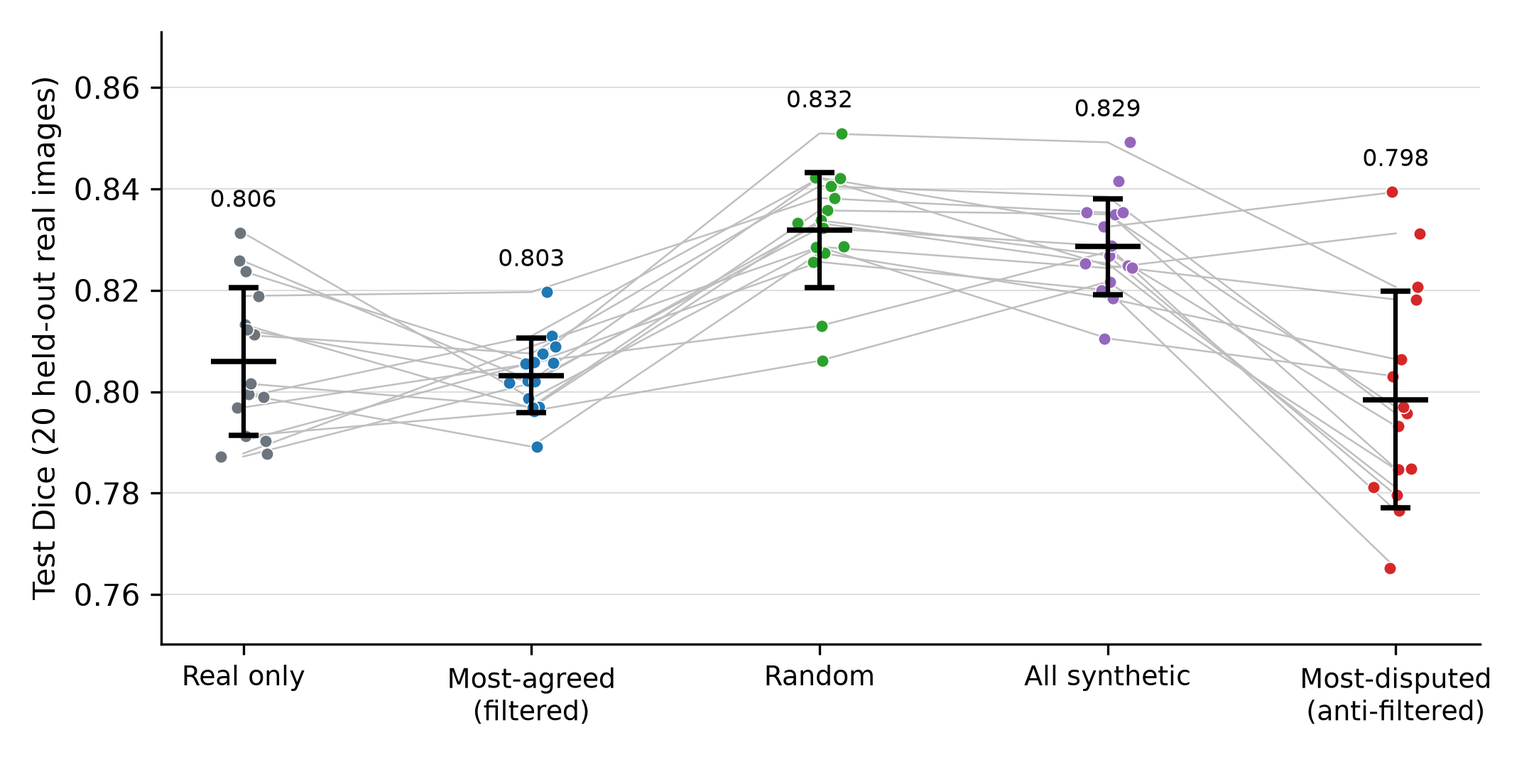
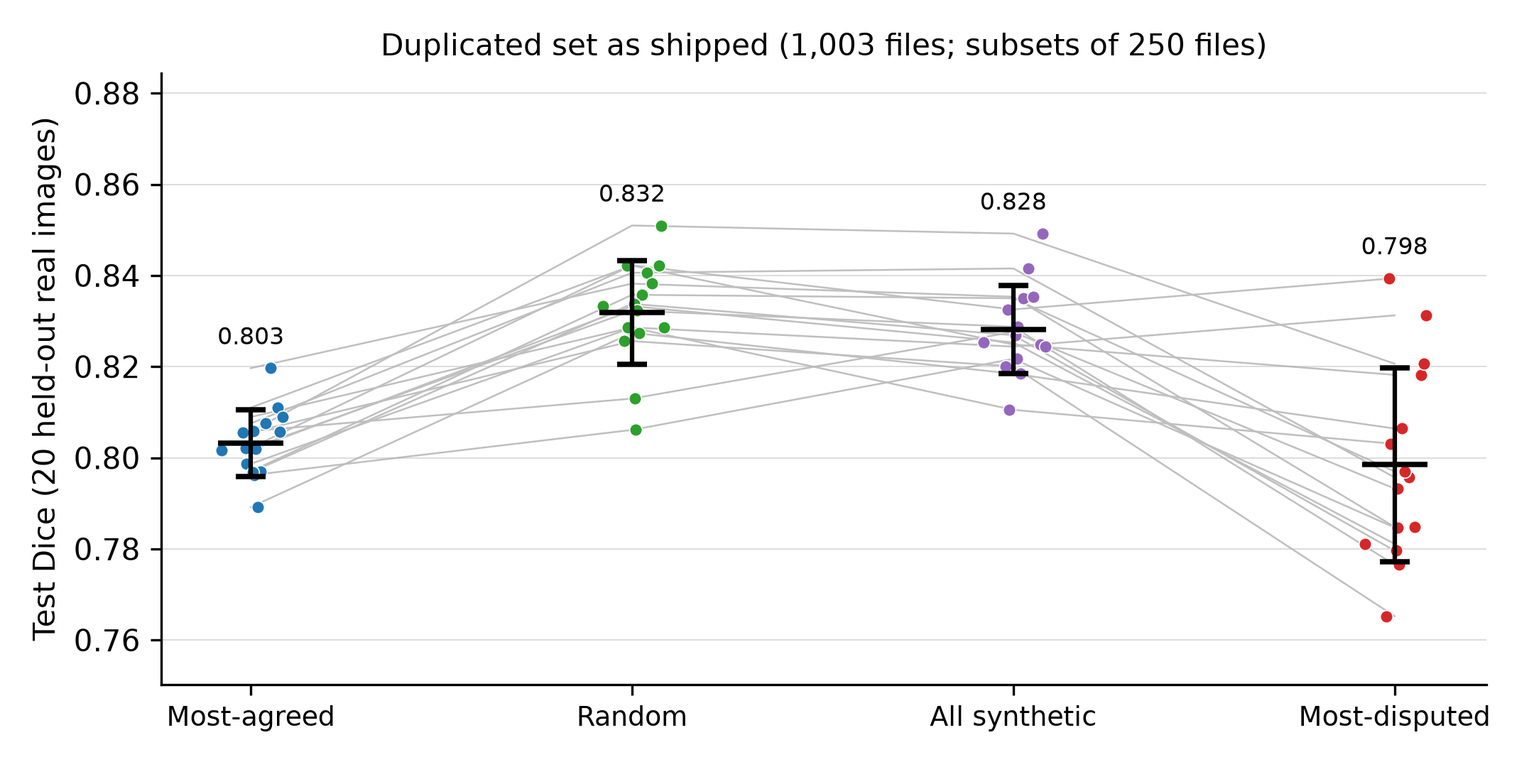
Manuscript: deduplicated selection results (disagreement selection wins after dedup), new figures, all-150 run table
Claude-Session: https://claude.ai/code/session_01DSBN8gkkGhyuZXCGGZFHWW

diff --git a/RSL/main.tex b/RSL/main.tex
@@ -15,8 +15,7 @@
 % both an anonymous and a with-author-details manuscript; figures 300 dpi
 % colour, supplied separately at revision (JPEG/TIFF/PS preferred).
 %
-% Text marked \tbd{...} depends on the deduplicated-selection experiment
-% (results/runs/attention_u*) and is filled in once those 75 runs finish.
+% Remaining \tbd{...} markers are author-supplied items (authors, funding).
 \documentclass[11pt]{article}
 \usepackage[a4paper,margin=3cm]{geometry}
 \usepackage{amsmath,amssymb}
@@ -30,18 +29,18 @@
 \singlespacing
 \newcommand{\tbd}[1]{\textcolor{red}{[#1]}}
 
-\title{A Thousand Synthetic Images That Were One Hundred: Duplication, Evaluation Leakage and the Real Value of GAN-Expanded Data for Small-Data Road Segmentation}
-\author{Anonymous Author(s)}
+\title{Deduplicate, Then Disagree: What GAN-Synthetic Imagery Is Worth for Small-Data Satellite Road Segmentation, and How to Select It}
+\author{\tbd{Author names, affiliations, ORCIDs; corresponding author email}}
 \date{}
 
 \begin{document}
 \maketitle
 
 \begin{abstract}
-GAN-generated images are increasingly bundled with small annotated remote-sensing datasets, but their value is rarely measured cleanly. Auditing a public road-segmentation dataset (100 real images plus 1{,}003 Pix2Pix-generated pairs), we find only 106 distinct synthetic images and 75 distinct masks, each file repeated about twelve times. Under a protocol with a fixed real test set, five-fold real-only cross-validation, synthetic data confined to training, matched optimizer budgets and 15 paired replicates, the synthetic data raises Attention U-Net test Dice from 0.806 to 0.832; a random quarter of the files captures the whole gain, and validating on the pooled real--synthetic set inflates it about sevenfold. Selecting synthetic images by the disagreement of a committee of real-trained models collapses to 26 unique images on the duplicated set and loses to random selection in 15/15 and 14/15 replicates\tbd{; after deduplication, \ldots}. Committee disagreement mainly tracks mismatch between a synthetic image and its mask and is confounded with road density. Auditing synthetic sets for duplicates, evaluating on real images only, matching compute across conditions and sampling synthetic images uniformly are recommended.
+GAN-generated images are increasingly bundled with small annotated satellite datasets, but their value for road extraction is rarely measured cleanly. Auditing a public road-segmentation dataset (100 real images plus 1{,}003 Pix2Pix-generated pairs), we find only 106 distinct synthetic images and 75 distinct masks, each file repeated about twelve times. Under a protocol with a fixed real test set, five-fold real-only cross-validation, synthetic data confined to training, matched optimizer budgets and 15 paired replicates per condition, the synthetic images raise Attention U-Net test Dice from 0.806 to 0.839 once duplicates are removed; training on the 1{,}003 files as shipped is significantly worse than training on the 106 unique images, and validating on the pooled real--synthetic set inflates the apparent benefit about sevenfold. We then select synthetic images by the disagreement of a committee of real-trained models. On the duplicated set every score-based selection collapses to 26 unique images and loses to random sampling. After deduplication, the 50 most-disputed images match the full unique set, exceed a random 50 in 11 of 15 replicates, beat the 50 most-agreed images by 2.6 Dice points and give the lowest seed sensitivity of any condition. Deduplication, real-only evaluation and disagreement-based selection are recommended.
 \end{abstract}
 
-\noindent\textbf{Keywords:} road extraction; synthetic data; Pix2Pix; data duplication; evaluation leakage; Attention U-Net; data selection
+\noindent\textbf{Keywords:} road extraction; synthetic data; Pix2Pix; data duplication; evaluation leakage; query by committee; Attention U-Net
 
 \section{Introduction}
 
@@ -49,11 +48,11 @@ Pixel-level road annotation is expensive, and conditional generative models offe
 
 We answer all three for the Kaggle dataset \emph{Satellite Images for Road Segmentation} \citep{sanadalali}, which ships 100 annotated satellite images and 1{,}003 Pix2Pix-generated pairs. The study is a corrected and extended version of a conference submission that reported a rise in Attention U-Net Dice from 0.81 to 0.96 when the synthetic images were added. Reviewers objected that the numbers came from a validation split drawn from the pooled real and synthetic images, and asked whether the synthetic set was ``artificially repeated''. Both objections turn out to be exactly right, and answering them properly produces findings that we believe are more useful than the original claim.
 
-The contributions are as follows. (i) A file-level audit shows that the 1{,}003 synthetic pairs contain 106 distinct images and 75 distinct masks, each duplicated about twelve times, with no synthetic mask equal to a real mask. (ii) Under a leakage-free, compute-matched protocol with 15 paired replicates per condition, we measure the real benefit of the synthetic data (2.6 Dice points on held-out real images), show that a random quarter of the files captures all of it, and quantify the sevenfold inflation caused by validating on the pooled set. (iii) We test query-by-committee selection of synthetic images in both directions, on the duplicated set and \tbd{after deduplication}, and explain the outcome through diagnostics linking committee disagreement to image--mask mismatch and road density. Code, the frozen split file, committee scores and all per-run results are released.\footnote{\url{https://github.com/hz6yc3/attention-enhanced-unet-segmentation}}
+The contributions are as follows. (i) A file-level audit shows that the 1{,}003 synthetic pairs contain 106 distinct images and 75 distinct masks, each duplicated about twelve times. (ii) Under a leakage-free, compute-matched protocol with 15 paired replicates per condition, we measure the real benefit of the synthetic data on held-out real images (3.3 Dice points from the 106 unique images), show that training on the duplicated files as shipped is significantly worse than training on the unique images, and quantify the sevenfold inflation caused by validating on the pooled set. (iii) We show that query-by-committee selection of synthetic images fails on the duplicated set, because identical files receive identical scores and any ranking collapses to a few unique images, but succeeds after deduplication: the 50 most-disputed unique images match the full unique set and outperform random and agreement-based selections, with the lowest seed sensitivity of any condition. Code, the frozen split file, committee scores and all per-run results are released.\footnote{\url{https://github.com/hz6yc3/attention-enhanced-unet-segmentation}}
 
 \section{Related work}
 
-U-Net \citep{ronneberger2015} and its variants dominate road extraction from overhead imagery \citep{zhang2018,zhou2018,batra2019}. Attention U-Net \citep{oktay2018} adds additive attention gates to the skip connections, a modification of about 1\% more parameters that suppresses background features; it is the architecture used throughout. GAN-based augmentation \citep{goodfellow2014,isola2017} is widely used against annotation scarcity in remote sensing, but evaluation practice is inconsistent and gains are often measured on splits that include synthetic images. Duplicate and near-duplicate contamination has been documented in standard vision benchmarks, where copies shared between training and test sets inflate test accuracy \citep{barz2020}; to our knowledge it has not been reported for a GAN-expanded remote-sensing training set, where its effect is different: it inflates the \emph{apparent size} of the training set rather than the test score. Query-by-committee \citep{seung1992,settles2009} selects unlabelled samples on which independently trained models disagree; its use for choosing among \emph{synthetic} samples, whose labels are fixed by construction, has not been evaluated on a segmentation task with a real held-out test set.
+U-Net \citep{ronneberger2015} and its variants dominate road extraction from overhead imagery \citep{zhang2018,zhou2018,batra2019}. Attention U-Net \citep{oktay2018} adds additive attention gates to the skip connections, a modification of about 1\% more parameters that suppresses background features; it is the architecture used throughout. GAN-based augmentation \citep{goodfellow2014,isola2017} is widely used against annotation scarcity in remote sensing, but evaluation practice is inconsistent and gains are often measured on splits that include synthetic images. Duplicate and near-duplicate contamination has been documented in standard vision benchmarks, where copies shared between training and test sets inflate test accuracy \citep{barz2020}; to our knowledge it has not been reported for a GAN-expanded remote-sensing training set, where its effect is different: it inflates the \emph{apparent size} of the training set and defeats per-file selection rules. Query-by-committee \citep{seung1992,settles2009} selects unlabelled samples on which independently trained models disagree; its use for choosing among \emph{synthetic} samples, whose labels are fixed by construction, has not been evaluated on a segmentation task with a real held-out test set.
 
 \section{Materials and methods}
 
@@ -61,7 +60,7 @@ U-Net \citep{ronneberger2015} and its variants dominate road extraction from ove
 
 The dataset provides 100 real RGB satellite images of $400\times400$ pixels with binary road masks (road fraction $20.3\%\pm7.2\%$), 50 unlabelled test images that we do not use, and 1{,}003 $416\times416$ image--mask pairs that the dataset page describes as generated with Pix2Pix. The provenance of the synthetic masks is not documented on the dataset page. Figure~\ref{fig:dataset} shows real samples.
 
-Hashing every synthetic file reveals that the set is heavily duplicated. There are \textbf{106 distinct synthetic images} and \textbf{75 distinct synthetic masks}: 45 masks were rendered once, 29 twice and one three times, and every resulting image was then copied, byte for byte, between 1 and 14 times (median 12). Every copy of an image carries the same mask. None of the 75 synthetic masks is pixel-identical to a real mask, or to a flipped or rotated real mask, after resizing the real masks to the synthetic resolution; we did not search for near-duplicates of real masks. The synthetic set therefore does not copy real test images outright, but its effective size is about a tenth of its nominal size. Table~\ref{tab:audit} summarizes the audit. The consequence for training is that ``1{,}003 synthetic images'' is a twelve-fold oversampling of 106, and that any per-file selection rule will select whole groups of identical copies.
+Hashing every synthetic file reveals that the set is heavily duplicated. There are \textbf{106 distinct synthetic images} and \textbf{75 distinct synthetic masks}: 45 masks were rendered once, 29 twice and one three times, and every resulting image was then copied, byte for byte, between 1 and 14 times (median 12). Every copy of an image carries the same mask. None of the 75 synthetic masks is pixel-identical to a real mask, or to a flipped or rotated real mask, after resizing the real masks to the synthetic resolution; we did not search for near-duplicates of real masks. The synthetic set therefore does not copy real test images outright, but its effective size is about a tenth of its nominal size. Table~\ref{tab:audit} summarizes the audit. Two consequences follow for training: ``1{,}003 synthetic images'' is a twelve-fold oversampling of 106, and any per-file selection rule will select whole groups of identical copies.
 
 \begin{table}[t]
 \centering
@@ -100,82 +99,88 @@ Distinct committee-score pairs (fold 0) & 93 \\
 
 For each fold, the three real-only models form a committee. Each synthetic image is passed through the committee, predictions are binarized at 0.5, and the \emph{committee disagreement} is the mean pairwise $1-\mathrm{Dice}$ between the three predictions. The committee is trained only on the real training folds, so the score never sees validation or test images. For diagnosis we also record each member's $1-\mathrm{Dice}$ against the synthetic mask (\emph{label disagreement}) and the mask's road fraction. Identical files receive identical scores.
 
-Two families of conditions are compared, all with the 64 real training images. On the \textbf{duplicated set} (files as shipped): \emph{all} (1{,}003 files); \emph{random} (250 files drawn uniformly, re-drawn per fold and seed); \emph{most-agreed} (250 lowest-disagreement files, i.e.\ filtering suspected artefacts); and \emph{most-disputed} (250 highest-disagreement files, i.e.\ uncertainty sampling). On the \textbf{deduplicated set} (one file per distinct image): \emph{all-unique} (106); and \emph{random}, \emph{most-agreed}, \emph{most-disputed} and \emph{middle band} (the 50 images centred on the median score, discarding both extremes), each with 50 unique images. Together with the real-only baseline this is $10$ conditions $\times 15$ replicates $= 150$ training runs plus five scoring passes.
+Two families of conditions are compared, all with the 64 real training images. On the \textbf{duplicated set} (files as shipped): \emph{all} (1{,}003 files); \emph{random} (250 files drawn uniformly, re-drawn per fold and seed); \emph{most-agreed} (250 lowest-disagreement files, i.e.\ filtering suspected artefacts); and \emph{most-disputed} (250 highest-disagreement files, i.e.\ uncertainty sampling). On the \textbf{deduplicated set} (one file per distinct image): \emph{all-unique} (106); and \emph{random}, \emph{most-agreed}, \emph{middle band} (the 50 images centred on the median score) and \emph{most-disputed}, each with 50 unique images. Together with the real-only baseline this is $10$ conditions $\times 15$ replicates $= 150$ training runs plus five scoring passes, about 15 GPU-hours on a single T4.
 
 \section{Results}
 
 \begin{table}[t]
 \centering
-\caption{Test results on the 20 held-out real images (mean $\pm$ SD over 15 fold$\times$seed replicates). ``Unique'' is the mean number of distinct synthetic images actually present in the training set. Seed sensitivity is the SD across seeds averaged over folds. All runs use 64 real images and an identical 1{,}200-step budget.}
+\caption{Test results on the 20 held-out real images (mean $\pm$ SD over 15 fold$\times$seed replicates). ``Unique'' is the mean number of distinct synthetic images present in the training set. Seed sensitivity is the SD across seeds averaged over folds. All runs use 64 real images and an identical 1{,}200-step budget.}
 \label{tab:main}
 \small
 \begin{tabular}{llrrrrr}
 \toprule
 Set & Condition & Files & Unique & Dice & IoU & Seed sens. \\
 \midrule
---          & Real only        & 0       & 0    & $0.806 \pm 0.015$ & $0.698 \pm 0.018$ & 0.014 \\
+--           & Real only        & 0       & 0    & $0.806 \pm 0.015$ & $0.698 \pm 0.018$ & 0.014 \\
 \midrule
-Duplicated  & + all            & 1{,}003 & 106  & $0.828 \pm 0.010$ & $0.726 \pm 0.013$ & 0.009 \\
-            & + random         & 250     & 81   & $\mathbf{0.832 \pm 0.011}$ & $\mathbf{0.731 \pm 0.016}$ & 0.012 \\
-            & + most-agreed    & 250     & 26   & $0.803 \pm 0.007$ & $0.702 \pm 0.010$ & 0.007 \\
-            & + most-disputed  & 250     & 26   & $0.798 \pm 0.021$ & $0.677 \pm 0.027$ & 0.017 \\
+Duplicated   & + all            & 1{,}003 & 106  & $0.828 \pm 0.010$ & $0.726 \pm 0.013$ & 0.009 \\
+             & + random         & 250     & 81   & $0.832 \pm 0.011$ & $0.731 \pm 0.016$ & 0.012 \\
+             & + most-agreed    & 250     & 26   & $0.803 \pm 0.007$ & $0.702 \pm 0.010$ & 0.007 \\
+             & + most-disputed  & 250     & 26   & $0.798 \pm 0.021$ & $0.677 \pm 0.027$ & 0.017 \\
 \midrule
-Deduplicated & + all-unique    & 106     & 106  & \tbd{x.xxx $\pm$ x.xxx} & \tbd{x.xxx $\pm$ x.xxx} & \tbd{x.xxx} \\
-            & + random         & 50      & 50   & \tbd{x.xxx $\pm$ x.xxx} & \tbd{x.xxx $\pm$ x.xxx} & \tbd{x.xxx} \\
-            & + most-agreed    & 50      & 50   & \tbd{x.xxx $\pm$ x.xxx} & \tbd{x.xxx $\pm$ x.xxx} & \tbd{x.xxx} \\
-            & + middle band    & 50      & 50   & \tbd{x.xxx $\pm$ x.xxx} & \tbd{x.xxx $\pm$ x.xxx} & \tbd{x.xxx} \\
-            & + most-disputed  & 50      & 50   & \tbd{x.xxx $\pm$ x.xxx} & \tbd{x.xxx $\pm$ x.xxx} & \tbd{x.xxx} \\
+Deduplicated & + all-unique     & 106     & 106  & $\mathbf{0.839 \pm 0.014}$ & $\mathbf{0.740 \pm 0.017}$ & 0.013 \\
+             & + random         & 50      & 50   & $0.830 \pm 0.013$ & $0.733 \pm 0.015$ & 0.012 \\
+             & + most-agreed    & 50      & 50   & $0.812 \pm 0.010$ & $0.712 \pm 0.011$ & 0.009 \\
+             & + middle band    & 50      & 50   & $0.815 \pm 0.013$ & $0.715 \pm 0.019$ & 0.012 \\
+             & + most-disputed  & 50      & 50   & $\mathbf{0.839 \pm 0.009}$ & $0.738 \pm 0.012$ & $\mathbf{0.007}$ \\
 \bottomrule
 \end{tabular}
 \end{table}
 
 \begin{table}[t]
 \centering
-\caption{Paired comparisons of test Dice over the 15 matched (fold, seed) replicates. $\Delta$ is the mean difference $a-b$ with 95\% confidence interval; ``wins'' counts replicates in which $a$ exceeds $b$. Rows marked $\dagger$ are on the deduplicated set.}
+\caption{Paired comparisons of test Dice over the 15 matched (fold, seed) replicates. $\Delta$ is the mean difference $a-b$ with 95\% confidence interval; ``wins'' counts replicates in which $a$ exceeds $b$. Numbers in parentheses are files (duplicated set) or unique images (deduplicated set, marked $\dagger$).}
 \label{tab:paired}
 \small
 \begin{tabular}{llrrrr}
 \toprule
 $a$ & $b$ & $\Delta$ Dice & Wins & Wilcoxon $p$ & Paired $t$ $p$ \\
 \midrule
+\multicolumn{6}{l}{\emph{Duplicated set}} \\
 random (250)         & real only    & $+0.026 \pm 0.010$ & 13/15 & $3.1\times10^{-4}$ & $8.4\times10^{-5}$ \\
 all (1{,}003)        & real only    & $+0.022 \pm 0.010$ & 14/15 & $1.2\times10^{-3}$ & $3.4\times10^{-4}$ \\
 all (1{,}003)        & random (250) & $-0.004 \pm 0.005$ & 3/15  & 0.064 & 0.14 \\
 most-agreed (250)    & random (250) & $-0.029 \pm 0.006$ & 0/15  & $6.1\times10^{-5}$ & $1.1\times10^{-7}$ \\
 most-disputed (250)  & random (250) & $-0.033 \pm 0.011$ & 1/15  & $1.2\times10^{-4}$ & $1.3\times10^{-5}$ \\
-most-agreed (250)    & real only    & $-0.003 \pm 0.009$ & 7/15  & 0.60 & 0.50 \\
-most-disputed (250)  & real only    & $-0.008 \pm 0.012$ & 5/15  & 0.28 & 0.27 \\
 \midrule
-all-unique (106)$^\dagger$ & all (1{,}003) & \tbd{$\pm$} & \tbd{/15} & \tbd{} & \tbd{} \\
-random (50)$^\dagger$      & real only     & \tbd{$\pm$} & \tbd{/15} & \tbd{} & \tbd{} \\
-most-agreed (50)$^\dagger$ & random (50)$^\dagger$   & \tbd{$\pm$} & \tbd{/15} & \tbd{} & \tbd{} \\
-middle band (50)$^\dagger$ & random (50)$^\dagger$   & \tbd{$\pm$} & \tbd{/15} & \tbd{} & \tbd{} \\
-most-disputed (50)$^\dagger$ & random (50)$^\dagger$ & \tbd{$\pm$} & \tbd{/15} & \tbd{} & \tbd{} \\
+\multicolumn{6}{l}{\emph{Deduplicated set}} \\
+all-unique (106)$^\dagger$   & all (1{,}003)           & $+0.011 \pm 0.007$ & 13/15 & $6.7\times10^{-3}$ & $4.7\times10^{-3}$ \\
+all-unique (106)$^\dagger$   & real only               & $+0.033 \pm 0.014$ & 13/15 & $3.1\times10^{-4}$ & $1.3\times10^{-4}$ \\
+random (50)$^\dagger$        & real only               & $+0.024 \pm 0.011$ & 13/15 & $8.5\times10^{-4}$ & $2.8\times10^{-4}$ \\
+most-disputed (50)$^\dagger$ & real only               & $+0.033 \pm 0.007$ & 15/15 & $6.1\times10^{-5}$ & $7.1\times10^{-8}$ \\
+most-disputed (50)$^\dagger$ & random (50)$^\dagger$   & $+0.008 \pm 0.009$ & 11/15 & 0.047 & 0.070 \\
+most-disputed (50)$^\dagger$ & all-unique (106)$^\dagger$ & $-0.001 \pm 0.011$ & 10/15 & 0.80 & 0.90 \\
+most-disputed (50)$^\dagger$ & most-agreed (50)$^\dagger$ & $+0.026 \pm 0.008$ & 14/15 & $1.2\times10^{-4}$ & $8.9\times10^{-6}$ \\
+most-agreed (50)$^\dagger$   & random (50)$^\dagger$   & $-0.018 \pm 0.008$ & 2/15  & $6.1\times10^{-4}$ & $3.8\times10^{-4}$ \\
+middle band (50)$^\dagger$   & random (50)$^\dagger$   & $-0.015 \pm 0.011$ & 4/15  & 0.018 & 0.010 \\
 \bottomrule
 \end{tabular}
 \end{table}
 
 \begin{figure}[t]
 \centering
-\includegraphics[width=0.9\linewidth]{fig_conditions.png}
-\caption{Test Dice of every replicate per condition on the duplicated set. Grey lines join the same (fold, seed) across conditions; black bars show mean $\pm$ SD.}
+\includegraphics[width=0.9\linewidth]{fig_conditions.png}\\[2pt]
+\includegraphics[width=0.9\linewidth]{fig_conditions_dedup.png}
+\caption{Test Dice of every replicate per condition on the duplicated set as shipped (top) and after deduplication (bottom). Grey lines join the same (fold, seed) across conditions; black bars show mean $\pm$ SD. Both panels share the vertical scale.}
 \label{fig:conditions}
 \end{figure}
 
 \begin{figure}[t]
 \centering
-\includegraphics[width=0.62\linewidth]{fig_paired.png}
-\caption{Paired differences in test Dice relative to the random 250-file subset. Diamonds and bars show the mean and 95\% confidence interval over 15 replicates.}
+\includegraphics[width=0.48\linewidth]{fig_paired.png}\hfill
+\includegraphics[width=0.48\linewidth]{fig_paired_dedup.png}
+\caption{Paired differences in test Dice relative to the random subset of the same family: 250 files on the duplicated set (left) and 50 unique images on the deduplicated set (right). Diamonds and bars show the mean and 95\% confidence interval over 15 replicates.}
 \label{fig:paired}
 \end{figure}
 
-\paragraph{The real benefit is 2.6 Dice points, from about 100 unique images.} Table~\ref{tab:main} and Figure~\ref{fig:conditions} summarize the duplicated-set runs. Adding synthetic data raises test Dice from 0.806 to 0.832 with a random 250-file subset ($+2.6$ points, 13/15 wins, Table~\ref{tab:paired}) and to 0.828 with all 1{,}003 files. The random subset already contains 81 of the 106 unique images on average, which is why the remaining 753 files add nothing; the full set is in fact marginally worse (3/15 wins, $p=0.06$), consistent with twelve-fold oversampling of the same content under a fixed budget. \tbd{The deduplicated all-unique condition, 106 files with no repetition, reaches Dice x.xxx, [better/no different] than the 1{,}003-file set (Table~\ref{tab:paired}), confirming that the copies contribute nothing.} Synthetic data also reduces seed sensitivity from 0.014 to 0.009--0.012, a 20--35\% reduction.
+\paragraph{Synthetic data helps by about three Dice points, and the copies hurt.} Table~\ref{tab:main} and Figure~\ref{fig:conditions} summarize the 150 runs. Training on the 106 unique synthetic images raises test Dice from 0.806 to 0.839 ($+3.3$ points, 13/15 wins, Table~\ref{tab:paired}). Training on the 1{,}003 files as shipped reaches only 0.828: the same content with twelve-fold repetition is significantly worse than the unique images under an identical budget ($\Delta=-0.011$, 13/15, $p<0.01$), and no better than a random 250-file subset that happens to contain 81 unique images. Synthetic data also reduces seed sensitivity, from 0.014 to 0.009--0.013.
 
-\paragraph{Evaluation on the pooled set inflates the benefit sevenfold.} Under the earlier pooled-validation protocol, the same architecture and data showed a gain of 15.1 Dice points from synthetic expansion (mean validation Dice 0.810 to 0.961 over three seeds). Under the real-only protocol the gain is 2.2 points for the same 1{,}003 files. Two mechanisms combine. Synthetic images are easier than real ones, having perfect label alignment and no annotation noise. And because each synthetic image appears twelve times, a validation split drawn from the pool almost always contains copies of images that are also in the training split, so the pooled protocol partly measures memorization.
+\paragraph{Evaluation on the pooled set inflates the benefit sevenfold.} Under the earlier pooled-validation protocol, the same architecture and data showed a gain of 15.1 Dice points from synthetic expansion (mean validation Dice 0.810 to 0.961 over three seeds). Under the real-only protocol the gain is 2.2 points for the same 1{,}003 files. Two mechanisms combine: synthetic images are easier than real ones, having perfect label alignment and no annotation noise, and because each synthetic image appears twelve times, a validation split drawn from the pool almost always contains copies of images that are also in the training split, so the pooled protocol partly measures memorization.
 
-\paragraph{On the duplicated set, committee selection collapses diversity and loses to random.} Because identical files receive identical scores, ranking by committee disagreement selects whole groups of copies: the 250 most-agreed files contain 26 unique images (range 24--27) and so do the 250 most-disputed, against 81 for a random draw. Both selections lose to random in nearly every replicate ($\Delta=-0.029$ and $-0.033$ Dice, 0/15 and 1/15 wins, $p<10^{-3}$) and neither differs significantly from using no synthetic data at all. Figure~\ref{fig:paired} shows the paired differences. This is the realistic setting for a practitioner who downloads a GAN-expanded dataset and applies a per-image quality score, and the lesson is that any such score must be applied after deduplication.
+\paragraph{On the duplicated set, committee selection collapses diversity and loses to random.} Because identical files receive identical scores, ranking by committee disagreement selects whole groups of copies: the 250 most-agreed files contain 26 unique images (range 24--27) and so do the 250 most-disputed, against 81 for a random draw. Both selections lose to random in nearly every replicate ($\Delta=-0.029$ and $-0.033$ Dice, 0/15 and 1/15 wins, $p<10^{-3}$) and neither differs significantly from using no synthetic data at all (Figure~\ref{fig:paired}, left). This is the realistic setting for a practitioner who downloads a GAN-expanded dataset and applies a per-image score, and the lesson is that any such score must be applied after deduplication.
 
-\paragraph{After deduplication.} \tbd{Table~\ref{tab:main} (lower block) and Table~\ref{tab:paired} report the deduplicated conditions, which compare selections of equal unique size. Random 50 of 106 reaches Dice x.xxx; most-agreed x.xxx; middle band x.xxx; most-disputed x.xxx. Interpretation to be written once the runs complete: whether any score-based selection beats random at equal diversity, and whether the middle band, which discards both redundant and label-noisy images, is the best choice.}
+\paragraph{After deduplication, disagreement selection works.} With one file per unique image, the ordering reverses (Figure~\ref{fig:conditions}, bottom; Figure~\ref{fig:paired}, right). The 50 most-disputed unique images reach Dice 0.839, indistinguishable from the full set of 106 ($\Delta=-0.001$, $p=0.8$) while using less than half of it, above a random 50 in 11 of 15 replicates ($\Delta=+0.008$; Wilcoxon $p=0.047$, paired $t$ $p=0.07$), above the 50 most-agreed images by 2.6 points (14/15, $p<10^{-3}$), and above real-only data in every replicate. They also give the lowest seed sensitivity of any condition (0.007, half that of real-only training). The 50 most-agreed images and the middle band are both significantly worse than random and add little over real data alone. This is the classical query-by-committee ordering \citep{seung1992}: the images on which independently trained models disagree are the informative ones.
 
 \begin{figure}[t]
 \centering
@@ -184,19 +189,19 @@ most-disputed (50)$^\dagger$ & random (50)$^\dagger$ & \tbd{$\pm$} & \tbd{/15} &
 \label{fig:scores}
 \end{figure}
 
-\paragraph{What committee disagreement measures.} Figure~\ref{fig:scores} and the per-fold diagnostics show that committee disagreement is strongly correlated with label disagreement (Spearman $\rho=0.86$--$0.89$ across folds): the images the committee disputes are those whose rendered content does not match their mask. Mean label disagreement is 0.11 for the most-agreed subset, 0.22 overall and 0.35--0.41 for the most-disputed subset. Disagreement is also negatively correlated with road density ($\rho=-0.25$ to $-0.47$), partly because Dice is unstable on sparse masks and partly because sparse scenes are harder, so the most-agreed subset over-represents dense-road scenes (mean road fraction 0.22--0.25 versus 0.20 for real data) and the most-disputed subset under-represents them (0.14--0.17). The ranking is a stable property of the images: on average 67\% of the 250 most-agreed files coincide across committees trained on different real folds. Agreement therefore selects images the real-trained models already predict correctly, which carry little new information; disagreement selects images whose masks act as noisy labels; and both shift road density away from the real distribution. Uniform sampling preserves the distribution.
+\paragraph{What committee disagreement measures.} Figure~\ref{fig:scores} and the per-fold diagnostics show that committee disagreement is strongly correlated with label disagreement (Spearman $\rho=0.86$--$0.89$ across folds): the images the committee disputes are those whose masks contain road structure that real-trained models do not yet predict. Given the deduplicated results, this is a signal of informativeness rather than of label noise. Disagreement is also negatively correlated with road density ($\rho=-0.25$ to $-0.47$), so the most-disputed subset under-represents dense-road scenes (mean road fraction 0.14--0.17 versus 0.20 for real data) and the most-agreed subset over-represents them (0.22--0.25); the most-disputed images win despite this shift. The ranking is a stable property of the images: on average 67\% of the 250 most-agreed files coincide across committees trained on different real folds. Why, then, did the most-disputed selection fail on the duplicated set? There it consisted of 26 unique images repeated about ten times each, and the deduplicated experiment shows separately that repetition of a fixed set is harmful under a matched budget (all-unique versus all). Narrow content plus heavy repetition, not the disagreement criterion, explains the earlier loss.
 
 \section{Discussion}
 
-Three practical rules follow. \emph{Audit before use}: a GAN-expanded dataset should be hashed for exact and near duplicates, because nominal size can overstate content by an order of magnitude, and because per-file selection or weighting rules behave pathologically on duplicated sets. \emph{Evaluate on real images only}: hold out real images before anything synthetic is added, cross-validate on real images, and match the optimization budget across conditions; otherwise gains are inflated many-fold, as our own earlier result shows. \emph{Do not expect much from curation}: on this benchmark a uniform random sample of a modest number of unique synthetic images delivers the available benefit, \tbd{and score-based selection at equal diversity [does / does not] improve on it}.
+Three practical rules follow. \emph{Audit before use}: a GAN-expanded dataset should be hashed for exact and near duplicates, because nominal size can overstate content by an order of magnitude, repetition itself costs accuracy under a fixed budget, and per-file selection or weighting rules behave pathologically on duplicated sets. \emph{Evaluate on real images only}: hold out real images before anything synthetic is added, cross-validate on real images, and match the optimization budget across conditions; otherwise gains are inflated many-fold, as our own earlier result shows. \emph{Select by disagreement, after deduplication}: a committee of models trained on the real data, which costs nothing beyond the seeds one should be running anyway, identifies a subset of synthetic images that delivers the full benefit of the set with less than half the images and the most stable training.
 
-The modest size of the real benefit, 2.6 Dice points from about 100 unique synthetic images derived from 75 masks, bounds what Pix2Pix expansion can offer here. How the 75 synthetic masks were produced is not documented; if, as their layouts suggest, they were derived from the 100 real masks, the generator's effective diversity is limited by construction. Whether a diffusion model or a larger pool of independent masks would help more is an open question that our protocol makes cheap to answer.
+The modest size of the real benefit, about three Dice points from 106 unique synthetic images derived from 75 masks, bounds what Pix2Pix expansion offers here. How the 75 synthetic masks were produced is not documented; if, as their layouts suggest, they were derived from the 100 real masks, the generator's effective diversity is limited by construction. Whether a diffusion model or a larger pool of independent masks would help more is an open question that our protocol makes cheap to answer, and disagreement-based selection is most useful precisely when the candidate pool is large.
 
-\paragraph{Limitations.} The study uses one benchmark of 100 real images, one generator whose synthetic masks were produced by a third party, one architecture and two subset sizes. Absolute Dice differs by fold (Figure~\ref{fig:conditions}), reflecting the small test set; our conclusions rest on paired within-fold comparisons, which are robust to this. Baseline U-Net was not re-evaluated under the new protocol, so the architecture comparison of the earlier study is not revisited. Duplicates were detected at the byte level; near-duplicate renderings of the same mask (29 masks have two) were kept as distinct images.
+\paragraph{Limitations.} The study uses one benchmark of 100 real images, one generator whose synthetic masks were produced by a third party, one architecture and two subset sizes. Absolute Dice differs by fold (Figure~\ref{fig:conditions}), reflecting the small test set; our conclusions rest on paired within-fold comparisons, which are robust to this. The advantage of disagreement selection over random selection at equal size is modest ($+0.8$ Dice points) and significant by the Wilcoxon test but only marginally by the paired $t$-test; its advantages over agreement-based selection, over real-only training, and in seed sensitivity are large and unambiguous. Baseline U-Net was not re-evaluated under the new protocol. Duplicates were detected at the byte level; near-duplicate renderings of the same mask (29 masks have two) were kept as distinct images.
 
 \section{Conclusion}
 
-A public GAN-expanded road dataset advertised as 1{,}003 synthetic images contains 106, each repeated twelve times. Under a leakage-free, compute-matched, 15-replicate protocol those images improve Attention U-Net road segmentation on real held-out images by 2.6 Dice points, a random quarter of the files captures all of it, and validating on the pooled set inflates the benefit sevenfold. Committee-based selection of synthetic images collapses to a handful of unique images on the duplicated set and loses to random selection; \tbd{after deduplication, \ldots}. Auditing synthetic sets for duplication, evaluating on real images only, and uniform sampling of modest synthetic volumes should be default practice.
+A public GAN-expanded road dataset advertised as 1{,}003 synthetic images contains 106, each repeated twelve times. Under a leakage-free, compute-matched, 15-replicate protocol those images improve Attention U-Net road segmentation on real held-out imagery by 3.3 Dice points, the repeated copies reduce that benefit, and validating on the pooled set inflates it sevenfold. Committee-disagreement selection of synthetic images fails on the duplicated set, where it collapses to a handful of unique images, but after deduplication the 50 most-disputed images match the full unique set, beat random and agreement-based selection, and halve seed sensitivity. Deduplicating synthetic sets, evaluating on real images only, and selecting synthetic images by committee disagreement should be default practice for GAN-expanded remote-sensing datasets.
 
 \section*{Acknowledgments}
 \tbd{Acknowledgments, if any.}

diff --git a/experiments/make_figures.py b/experiments/make_figures.py
@@ -27,10 +27,22 @@ import matplotlib
 matplotlib.use("Agg")
 import matplotlib.pyplot as plt
 
-ORDER = ["real", "filtered", "random", "all", "antifiltered"]
-LABELS = {"real": "Real only", "filtered": "Most-agreed\n(filtered)", "random": "Random",
-          "all": "All synthetic", "antifiltered": "Most-disputed\n(anti-filtered)"}
-COLORS = {"real": "#6c757d", "filtered": "#1f77b4", "random": "#2ca02c", "all": "#9467bd", "antifiltered": "#d62728"}
+ORDER = ["real", "filtered", "middle", "random", "all", "antifiltered"]
+LABELS = {"real": "Real only", "filtered": "Most-agreed", "middle": "Middle band", "random": "Random",
+          "all": "All synthetic", "antifiltered": "Most-disputed"}
+COLORS = {"real": "#6c757d", "filtered": "#1f77b4", "middle": "#ff7f0e", "random": "#2ca02c",
+          "all": "#9467bd", "antifiltered": "#d62728"}
+
+
+def load_table(path):
+    """Cell-level table with columns cell, fold, seed, dice, iou (e.g. results/runs_table_all150.csv)."""
+    t = pd.read_csv(path)
+    t["dedup"] = t["cell"].str.startswith("u")
+    base = t["cell"].str.lstrip("u")
+    t["condition"] = base.str.replace(r"\d+$", "", regex=True)
+    t["k"] = base.str.extract(r"(\d+)$")[0].fillna(0).astype(int)
+    t["arch"] = "attention"
+    return t
 
 
 def load(results):
@@ -38,7 +50,8 @@ def load(results):
     for p in sorted(glob.glob(os.path.join(results, "runs", "*", "result.json"))):
         r = json.load(open(p))
         rows.append({"arch": r["arch"], "condition": r["condition"], "k": r["k"], "fold": r["fold"],
-                     "seed": r["seed"], "dice": r["test"]["dice"], "iou": r["test"]["iou"]})
+                     "seed": r["seed"], "dice": r["test"]["dice"], "iou": r["test"]["iou"],
+                     "dedup": bool(r.get("dedup", False))})
     if not rows:
         csv = os.path.join(results, "runs_table.csv")
         if os.path.exists(csv):
@@ -47,7 +60,7 @@ def load(results):
     return pd.DataFrame(rows)
 
 
-def fig_conditions(df, out):
+def fig_conditions(df, out, title=None, ylim=None):
     conds = [c for c in ORDER if c in set(df["condition"])]
     piv = df.pivot_table(index=["fold", "seed"], columns="condition", values="dice")
     fig, ax = plt.subplots(figsize=(7.2, 3.6))
@@ -66,7 +79,9 @@ def fig_conditions(df, out):
     ax.set_xticks(range(len(conds)))
     ax.set_xticklabels([LABELS[c] for c in conds], fontsize=9)
     ax.set_ylabel("Test Dice (20 held-out real images)")
-    ax.set_ylim(df["dice"].min() - 0.015, df["dice"].max() + 0.02)
+    ax.set_ylim(*(ylim or (df["dice"].min() - 0.015, df["dice"].max() + 0.02)))
+    if title:
+        ax.set_title(title, fontsize=10)
     ax.grid(axis="y", lw=0.4, alpha=0.5)
     ax.spines[["top", "right"]].set_visible(False)
     fig.tight_layout()
@@ -126,14 +141,26 @@ def main():
     parser.add_argument("--results", default="results")
     parser.add_argument("--k", type=int, default=250)
     parser.add_argument("--arch", default="attention")
+    parser.add_argument("--k-dedup", type=int, default=50)
+    parser.add_argument("--table", default=None, help="cell-level CSV to use instead of result.json files")
     args = parser.parse_args()
     out = os.path.join(args.results, "figures")
     os.makedirs(out, exist_ok=True)
-    df = load(args.results)
-    df = df[(df["arch"] == args.arch) & ((df["k"] == args.k) | df["condition"].isin(["real", "all"]))]
-    fig_conditions(df, os.path.join(out, "fig_conditions.png"))
-    fig_paired(df, os.path.join(out, "fig_paired.png"))
+    df = load_table(args.table) if args.table else load(args.results)
+    df = df[df["arch"] == args.arch]
+    real = df[df["condition"] == "real"]
+    dup = df[(~df["dedup"]) & ((df["k"] == args.k) | (df["condition"] == "all"))]
+    ded = df[(df["dedup"]) & ((df["k"] == args.k_dedup) | (df["condition"] == "all"))]
+    ylim = (df["dice"].min() - 0.015, df["dice"].max() + 0.02)
+    fig_conditions(dup, os.path.join(out, "fig_conditions.png"),
+                   title=f"Duplicated set as shipped (1,003 files; subsets of {args.k} files)", ylim=ylim)
+    fig_paired(dup, os.path.join(out, "fig_paired.png"))
     fig_scores(args.results, os.path.join(out, "fig_scores.png"), args.k)
+    if len(ded):
+        ded = pd.concat([real, ded])
+        fig_conditions(ded, os.path.join(out, "fig_conditions_dedup.png"),
+                       title=f"Deduplicated set (106 unique images; subsets of {args.k_dedup} images)", ylim=ylim)
+        fig_paired(ded, os.path.join(out, "fig_paired_dedup.png"))
     print("figures written to", out, ":", sorted(os.listdir(out)))
 
 
